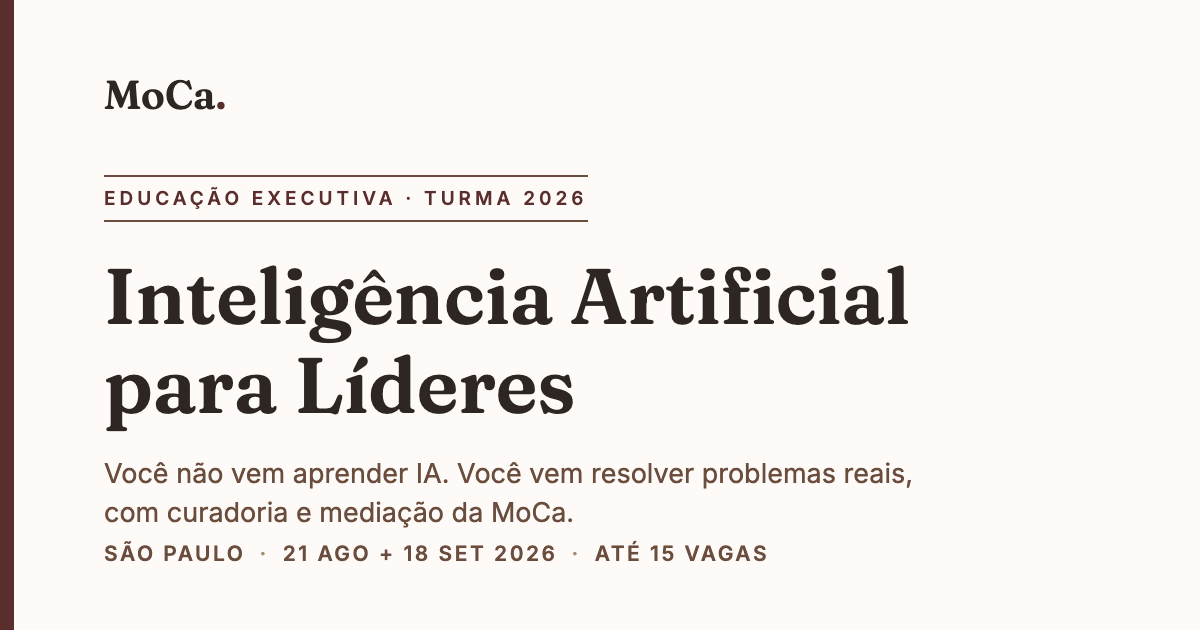
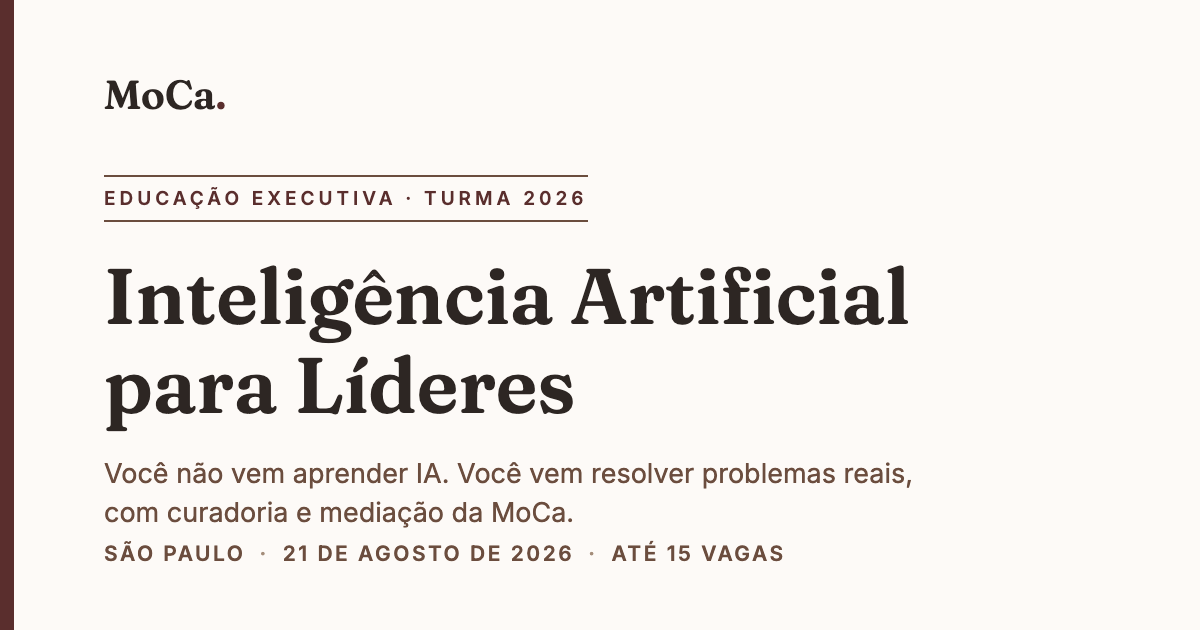
Remove Etapa 4 (segundo encontro): programa passa a ter um encontro único em 21/08/2026

Changed region(s): [[0.2467, 0.8444, 0.6475, 0.9048]]

diff --git a/index.html b/index.html
@@ -54,7 +54,7 @@
     "@type": "CourseInstance",
     "courseMode": "Onsite",
     "startDate": "2026-08-21",
-    "endDate": "2026-09-18",
+    "endDate": "2026-08-21",
     "location": {
       "@type": "Place",
       "name": "São Paulo",
@@ -526,7 +526,7 @@
     <h1>Você não vem aprender IA.<br>Você vem resolver problemas reais.</h1>
     <p class="sub" style="margin:0 auto;">Com especialistas ao seu lado. Com grupos de pares selecionados. Com curadoria e mediação da MoCa do início ao fim.</p>
     <div class="facts-row">
-      <span>Turma 2026</span><span>Até 15 executivos</span><span>São Paulo</span><span>21 de agosto e 18 de setembro</span>
+      <span>Turma 2026</span><span>Até 15 executivos</span><span>São Paulo</span><span>21 de agosto de 2026</span>
     </div>
     <a href="#inscricao" class="cta-btn">Garanta sua vaga</a>
   </div>
@@ -566,7 +566,7 @@
     <div class="eyebrow">Proposta de valor</div>
     <h2>Não é um curso. É uma mesa de trabalho.</h2>
     <p>Este não é um curso tradicional de Inteligência Artificial. Não é uma formação técnica, e não foi desenhado para ensinar ferramentas. Foi desenhado para produzir avanço real.</p>
-    <p>Ao longo de dois encontros presenciais, você trabalha, com apoio direto de especialistas e de grupos de pares selecionados, em soluções para problemas reais. Produtividade, decisão, processo, oportunidade: o que estiver represado por falta de tempo, de repertório técnico ou de um ambiente certo para testar, aqui ganha espaço para avançar de verdade.</p>
+    <p>Em um encontro presencial intensivo, você trabalha, com apoio direto de especialistas e de grupos de pares selecionados, em soluções para problemas reais. Produtividade, decisão, processo, oportunidade: o que estiver represado por falta de tempo, de repertório técnico ou de um ambiente certo para testar, aqui ganha espaço para avançar de verdade.</p>
     <p style="font-weight:600;">Turma única. Até 15 executivos. Ao longo do programa, trabalharemos alguns casos reais em conjunto.</p>
   </div>
 </section>
@@ -576,7 +576,7 @@
     <div class="eyebrow">O diferencial</div>
     <h2>Diagnóstico Estratégico Pré Workshop.</h2>
     <p>Antes do primeiro encontro, cada participante passa por um processo estruturado de diagnóstico. Nele, mapeamos os problemas, gargalos e oportunidades que deseja resolver com Inteligência Artificial.</p>
-    <p>A partir desse diagnóstico, a MoCa faz a curadoria de participantes e professores de cada turma, formando grupos de pares selecionados e compatíveis entre si. Durante os encontros, a MoCa também media as discussões, garantindo profundidade e direcionamento em tempo real.</p>
+    <p>A partir desse diagnóstico, a MoCa faz a curadoria de participantes e professores de cada turma, formando grupos de pares selecionados e compatíveis entre si. Durante o encontro, a MoCa também media as discussões, garantindo profundidade e direcionamento em tempo real.</p>
     <p>Os professores chegam preparados com ferramentas, metodologias, agentes e automações pensados para os casos que serão trabalhados em grupo. O tempo presencial deixa de ser usado para descobrir o problema e passa a ser usado quase inteiramente para construir, testar e validar as soluções.</p>
     <p>Você chega com um plano de trabalho personalizado. Sai com avanços concretos e um roteiro claro para continuar evoluindo.</p>
   </div>
@@ -597,18 +597,13 @@
         <div class="step-date">21 de agosto de 2026 · 09h às 18h, com pausa para almoço</div>
         <div class="step-desc">Refino dos desafios apresentados, definição da estratégia de solução e construção dos primeiros agentes, fluxos e automações com IA.</div>
       </li>
-      <li class="step">
+      <li class="step accent">
         <div class="step-title">Etapa 3 · Aplicação Prática</div>
-        <div class="step-date">Entre os encontros</div>
+        <div class="step-date">Pós encontro</div>
         <div class="step-desc">Cada participante evolui sua solução no ambiente real da empresa: testa, mede, aprende.</div>
       </li>
-      <li class="step accent">
-        <div class="step-title">Etapa 4 · Segundo Encontro</div>
-        <div class="step-date">18 de setembro de 2026 · 09h às 18h, com pausa para almoço</div>
-        <div class="step-desc">Evolução das soluções, refino das automações, troca de aprendizados entre o grupo e definição do roadmap individual para os próximos passos.</div>
-      </li>
     </ol>
-    <div class="timeline-note">Dois encontros. Um processo contínuo. Avanços reais a cada etapa.</div>
+    <div class="timeline-note">Um encontro intensivo. Um processo contínuo. Avanços reais a cada etapa.</div>
   </div>
 </section>
 
@@ -664,8 +659,8 @@
         <div class="value">Até 15 executivos</div>
       </div>
       <div class="invest-item">
-        <div class="label">Datas</div>
-        <div class="value">21 de agosto e 18 de setembro de 2026</div>
+        <div class="label">Data</div>
+        <div class="value">21 de agosto de 2026</div>
       </div>
       <div class="invest-item">
         <div class="label">Local</div>

diff --git a/landing_page_moca_ia.html b/landing_page_moca_ia.html
@@ -54,7 +54,7 @@
     "@type": "CourseInstance",
     "courseMode": "Onsite",
     "startDate": "2026-08-21",
-    "endDate": "2026-09-18",
+    "endDate": "2026-08-21",
     "location": {
       "@type": "Place",
       "name": "São Paulo",
@@ -526,7 +526,7 @@
     <h1>Você não vem aprender IA.<br>Você vem resolver problemas reais.</h1>
     <p class="sub" style="margin:0 auto;">Com especialistas ao seu lado. Com grupos de pares selecionados. Com curadoria e mediação da MoCa do início ao fim.</p>
     <div class="facts-row">
-      <span>Turma 2026</span><span>Até 15 executivos</span><span>São Paulo</span><span>21 de agosto e 18 de setembro</span>
+      <span>Turma 2026</span><span>Até 15 executivos</span><span>São Paulo</span><span>21 de agosto de 2026</span>
     </div>
     <a href="#inscricao" class="cta-btn">Garanta sua vaga</a>
   </div>
@@ -566,7 +566,7 @@
     <div class="eyebrow">Proposta de valor</div>
     <h2>Não é um curso. É uma mesa de trabalho.</h2>
     <p>Este não é um curso tradicional de Inteligência Artificial. Não é uma formação técnica, e não foi desenhado para ensinar ferramentas. Foi desenhado para produzir avanço real.</p>
-    <p>Ao longo de dois encontros presenciais, você trabalha, com apoio direto de especialistas e de grupos de pares selecionados, em soluções para problemas reais. Produtividade, decisão, processo, oportunidade: o que estiver represado por falta de tempo, de repertório técnico ou de um ambiente certo para testar, aqui ganha espaço para avançar de verdade.</p>
+    <p>Em um encontro presencial intensivo, você trabalha, com apoio direto de especialistas e de grupos de pares selecionados, em soluções para problemas reais. Produtividade, decisão, processo, oportunidade: o que estiver represado por falta de tempo, de repertório técnico ou de um ambiente certo para testar, aqui ganha espaço para avançar de verdade.</p>
     <p style="font-weight:600;">Turma única. Até 15 executivos. Ao longo do programa, trabalharemos alguns casos reais em conjunto.</p>
   </div>
 </section>
@@ -576,7 +576,7 @@
     <div class="eyebrow">O diferencial</div>
     <h2>Diagnóstico Estratégico Pré Workshop.</h2>
     <p>Antes do primeiro encontro, cada participante passa por um processo estruturado de diagnóstico. Nele, mapeamos os problemas, gargalos e oportunidades que deseja resolver com Inteligência Artificial.</p>
-    <p>A partir desse diagnóstico, a MoCa faz a curadoria de participantes e professores de cada turma, formando grupos de pares selecionados e compatíveis entre si. Durante os encontros, a MoCa também media as discussões, garantindo profundidade e direcionamento em tempo real.</p>
+    <p>A partir desse diagnóstico, a MoCa faz a curadoria de participantes e professores de cada turma, formando grupos de pares selecionados e compatíveis entre si. Durante o encontro, a MoCa também media as discussões, garantindo profundidade e direcionamento em tempo real.</p>
     <p>Os professores chegam preparados com ferramentas, metodologias, agentes e automações pensados para os casos que serão trabalhados em grupo. O tempo presencial deixa de ser usado para descobrir o problema e passa a ser usado quase inteiramente para construir, testar e validar as soluções.</p>
     <p>Você chega com um plano de trabalho personalizado. Sai com avanços concretos e um roteiro claro para continuar evoluindo.</p>
   </div>
@@ -597,18 +597,13 @@
         <div class="step-date">21 de agosto de 2026 · 09h às 18h, com pausa para almoço</div>
         <div class="step-desc">Refino dos desafios apresentados, definição da estratégia de solução e construção dos primeiros agentes, fluxos e automações com IA.</div>
       </li>
-      <li class="step">
+      <li class="step accent">
         <div class="step-title">Etapa 3 · Aplicação Prática</div>
-        <div class="step-date">Entre os encontros</div>
+        <div class="step-date">Pós encontro</div>
         <div class="step-desc">Cada participante evolui sua solução no ambiente real da empresa: testa, mede, aprende.</div>
       </li>
-      <li class="step accent">
-        <div class="step-title">Etapa 4 · Segundo Encontro</div>
-        <div class="step-date">18 de setembro de 2026 · 09h às 18h, com pausa para almoço</div>
-        <div class="step-desc">Evolução das soluções, refino das automações, troca de aprendizados entre o grupo e definição do roadmap individual para os próximos passos.</div>
-      </li>
     </ol>
-    <div class="timeline-note">Dois encontros. Um processo contínuo. Avanços reais a cada etapa.</div>
+    <div class="timeline-note">Um encontro intensivo. Um processo contínuo. Avanços reais a cada etapa.</div>
   </div>
 </section>
 
@@ -664,8 +659,8 @@
         <div class="value">Até 15 executivos</div>
       </div>
       <div class="invest-item">
-        <div class="label">Datas</div>
-        <div class="value">21 de agosto e 18 de setembro de 2026</div>
+        <div class="label">Data</div>
+        <div class="value">21 de agosto de 2026</div>
       </div>
       <div class="invest-item">
         <div class="label">Local</div>
